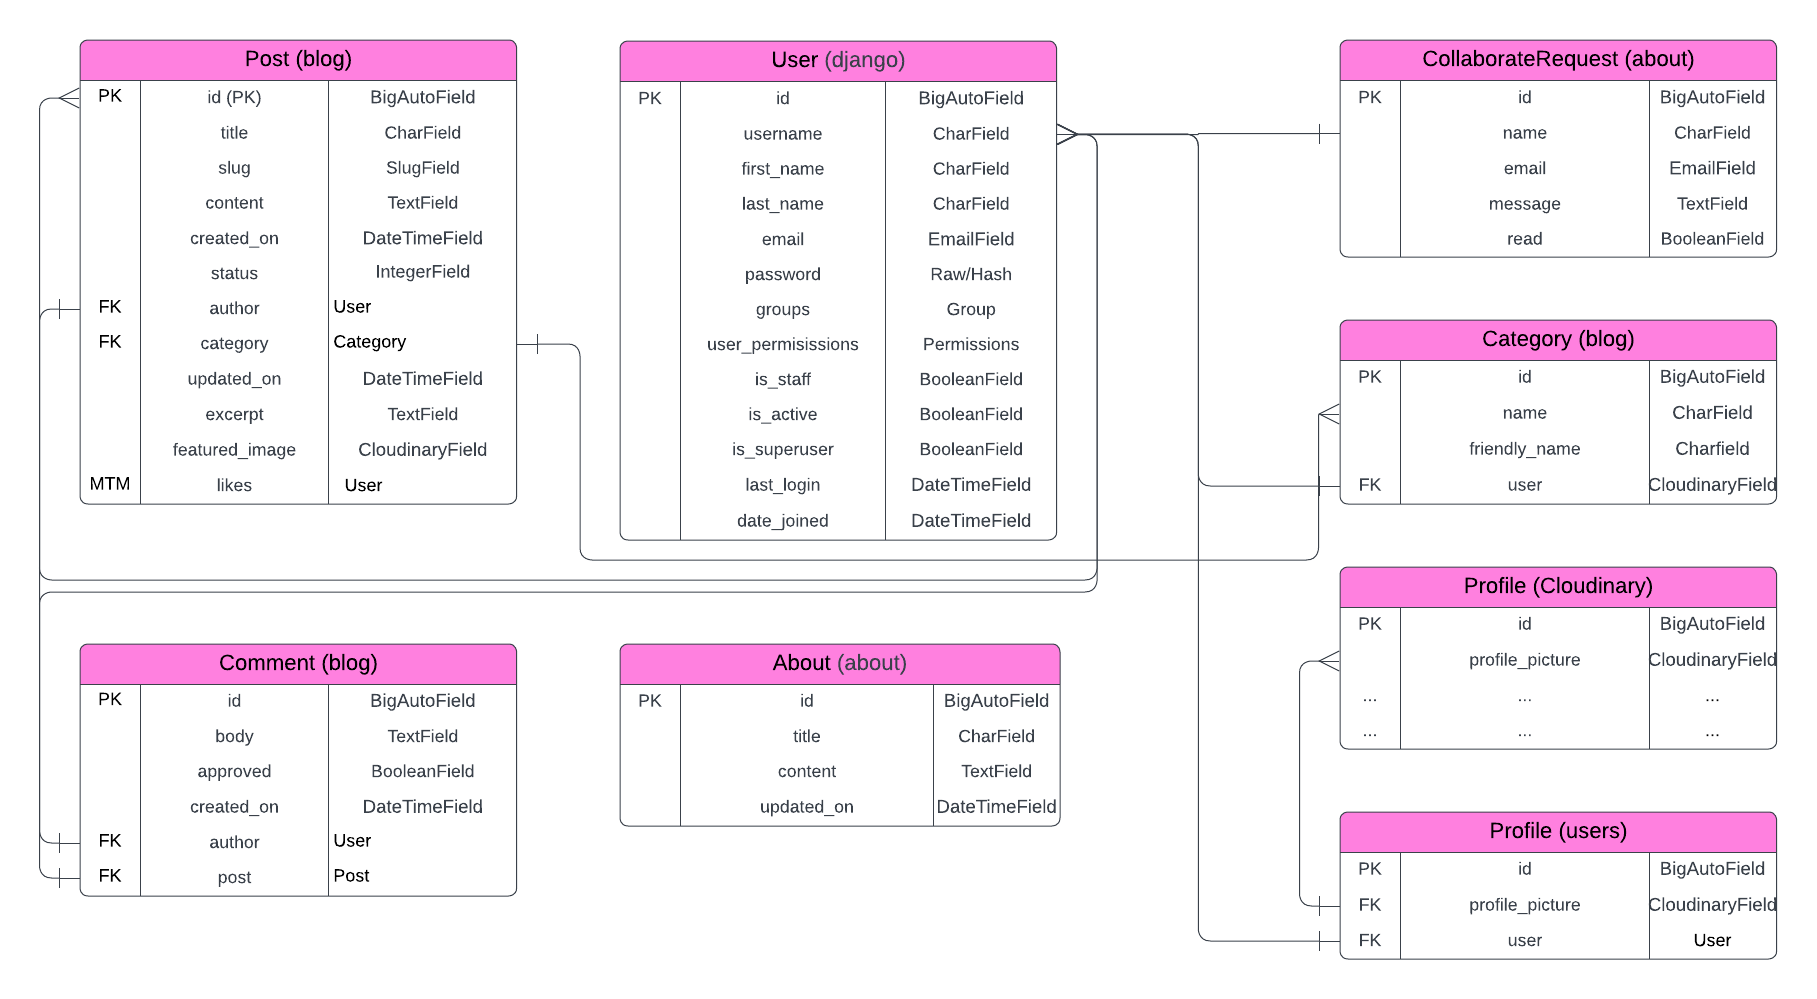
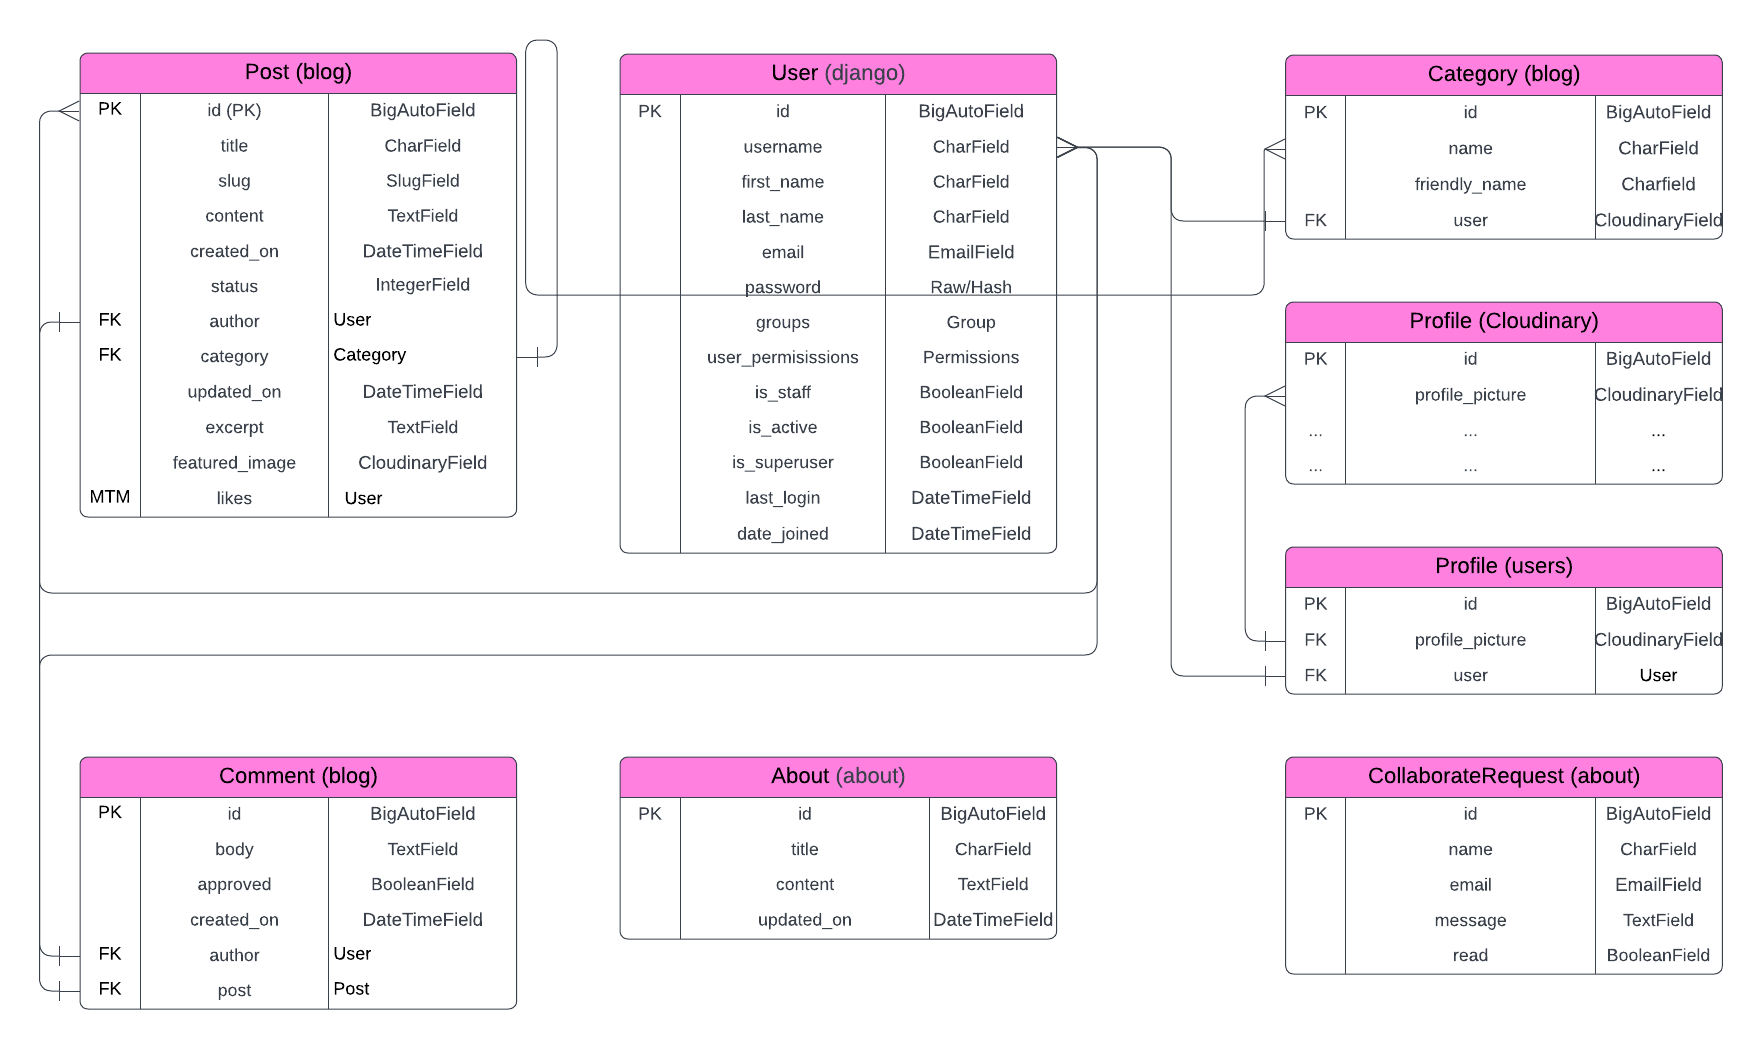
Update README with Entity Relationship details

diff --git a/README.md b/README.md
@@ -4,6 +4,192 @@
 
 
 
+
+
+
+# Project Background
+
+<details>
+
+<summary>Overview</summary> 
+
+- This Django web development project is an extension of Code Institute, "I Think Therefore I Blog".  
+- I have appended several features to the original concept.
+- I have given the User the ability to have a Profile Page so they can add/change their Profile Picture, their Username, Email, First Name and Last Name.
+- Their Profile Page consolidates the Posts that they liked and gives them ability to Edit/Delete the comments that they've submitted and UNLIKE Liked Posts
+- Users can also submit a Post of their own, making it more community driven
+- I have also included a Category feature which allows Users to categorise their Posts.  This feature needs further development in order to produce more meaniingful reports or summaries
+- From an Admin perspective, when the Admin is logged in, they have the ability to use a URL to login to djangos Admin feature.  The Admin retains full control over User Comments and User Posts as they need to be Approved by Admin before User contributions are published on the site for visitors and other Users.  Likes are not controlled by the Admin
+</details>
+
+
+## Agile Methodology
+
+<summary>Personas</summary> 
+
+- Developer - the person developing the product
+- Anonymous User - a user who is not logged in, there are no stories for this visitor
+- User - someone who has registered and logged in
+- Admin - the Site Owner
+
+</details>
+
+<details>
+<summary>Github</summary> 
+Github was used for Planning, Recording and Sharing of all aspects of the project:
+
+The [Project Elements:](https://github.com/users/DMASCoreDeclan/projects/20)
+- [Code Repository](https://github.com/DMASCoreDeclan/PRD-PP4-Blog)
+- [Version Control](https://github.com/DMASCoreDeclan/PRD-PP4-Blog) was used for version control of the code.  Regular [commits](https://github.com/DMASCoreDeclan/PRD-PP4-Blog/commits/main/) were created.  Where possible each commit was isolated to either a specific Issue but may have occassionally also included a minor change to some other part of the code
+- [Milestones](https://github.com/users/DMASCoreDeclan/projects/20/views/3)
+- [User Stories](https://github.com/users/DMASCoreDeclan/projects/20/views/10)
+- [Kanban](https://github.com/users/DMASCoreDeclan/projects/20)
+- [Labels](https://github.com/DMASCoreDeclan/PRD-PP4-Blog/labels)
+- [Sizing](https://github.com/users/DMASCoreDeclan/projects/20/settings/fields/72230614) User Stories were sized using T-shirt sizing (XS, S, M, L, XL) 
+- [MoSCow](https://github.com/users/DMASCoreDeclan/projects/20/views/7) Priorities are based on the MoSCoW method (Must have, Should have, Could have, Won't have)
+</details>
+
+
+
+<details>
+<summary>Github</summary> 
+
+</details>
+
+
+
+<details>
+<summary>Github</summary> 
+
+</details>
+
+
+
+<details>
+<summary>Github</summary> 
+
+</details>
+
+
+
+</details>
+
+
+
+## Wireframes
+[Designed with Balsamiq Wireframes for Desktop](https://balsamiq.com/wireframes/desktop/)
+
+Any vistor who has the URL can see the home sreen [blog|star Home](https://blogstar-fa4e79f10910.herokuapp.com/)
+
+  <details>
+  <summary>Home Screen (Anonymous User)</summary>  <img src=".ReadMe_Docs/images/wireframes/Home Page.png">
+  </details>
+
+  <details>
+  <summary>Register</summary>  <img src=".ReadMe_Docs/images/wireframes/REGISTER.png">
+  </details>
+
+  <details>
+  <summary>Login</summary>  <img src=".ReadMe_Docs/images/wireframes/LOGIN.png">
+  </details>
+
+  <details>
+  <summary> Home Screen (Logged in as Admin)</summary>  <img src=".ReadMe_Docs/images/wireframes/Home of Logged in Admin.png">
+  </details>
+
+  <details>
+  <summary> Home Screen (Logged in User)</summary>  <img src=".ReadMe_Docs/images/wireframes/Home of Logged in User.png">
+  </details>
+
+  <details>
+  <summary>Profile</summary>  <img src=".ReadMe_Docs/images/wireframes/PROFILE.png">
+  </details>
+
+  <details>
+  <summary>Create Post</summary>  <img src=".ReadMe_Docs/images/wireframes/Create.png">
+  </details>
+
+  <details>
+  <summary>Edit Comment</summary>  <img src=".ReadMe_Docs/images/wireframes/Edit Comment.png">
+  </details>
+
+  <details>
+  <summary>Logout</summary>  <img src=".ReadMe_Docs/images/wireframes/LOGOUT.png">
+  </details>
+
+<br>
+<br>
+
+</details>
+ 
+## Entity Relationship Diagram
+[Designed with Lucidchart](https://www.lucidchart.com/pages/)
+
+<details>
+<summary>ERD</summary>  <img src=".ReadMe_Docs/images/PP4 ERD.png">
+</details>
+
+<details>
+<summary>Project - Blogstar</summary>
+
+Blogstar is the django Project.  By default it uses SQLite but we're using PostgreSQL instead.
+
+There are three apps within the project:
+
+1. blog
+1. about
+1. users
+1. external apps
+
+<details>
+<summary>App - blog</summary>
+
+- `blog` models: `Post`, `Comment` and `Category`
+- `blog` forms: `CommentForm`, `CategoryForm` and `PostForm`
+- `blog` views: `PostList`, `PostLike`, `PostCreate`, 
+- `blog` pages: `index.html`, `post_detail.html`, `edit_comment.html` and `post_create.html`
+
+</details>
+
+<details>
+<summary>App - about</summary>
+
+- `about` models:  `About` and `CollaborateRequest`
+- `about` forms: `CollaborateForm`
+- `about` views: `about_me`
+- `about` pages: `about.html`
+
+</details>
+
+<details>
+<summary>App - users</summary>
+
+- `users` models: `Profile`.
+- `users` forms: `UserRegisterForm`, `UserUpdateForm` and `ProfileUpdateForm`
+- `users` views: `register`, `profile`, `comment_delete`, `register`, `register`, `register`, `register`
+- `users` pages: ``
+
+</details>
+
+<details>
+<summary>external - alauth, cloudinary </summary>
+
+- There is one model in `users` called `Profile`.
+
+</details>
+
+</details>
+
+
+
+<br>
+<br>
+
+
+
+
+
+
 ### Live site: https://flyux.carlmurray.design
 
 # Table of Contents
@@ -61,134 +247,11 @@
 - [👋 Credits](#-credits)
 
 
-# Project Background
-
-<details>
-
-<summary>Overview</summary> 
-
-- This Django web development project is an extension of Code Institute, "I Think Therefore I Blog".  
-- I have appended several features to the original concept.
-- I have given the User the ability to have a Profile Page so they can add/change their Profile Picture, their Username, Email, First Name and Last Name.
-- Their Profile Page consolidates the Posts that they liked and gives them ability to Edit/Delete the comments that they've submitted and UNLIKE Liked Posts
-- Users can also submit a Post of their own, making it more community driven
-- I have also included a Category feature which allows Users to categorise their Posts.  This feature needs further development in order to produce more meaniingful reports or summaries
-- From an Admin perspective, when the Admin is logged in, they have the ability to use a URL to login to djangos Admin feature.  The Admin retains full control over User Comments and User Posts as they need to be Approved by Admin before User contributions are published on the site for visitors and other Users.  Likes are not controlled by the Admin
-</details>
-
-
-<details>
-<summary>Agile Methodology</summary> 
-
-<details>
-<summary>Personas</summary> 
-
-- Developer - the person developing the product
-- Anonymous User - a user who is not logged in, there are no stories for this visitor
-- User - someone who has registered and logged in
-- Admin - the Site Owner
-
-</details>
-
-<details>
-<summary>Github</summary> 
-Github was used for Planning, Recording and Sharing of all aspects of the project:
-
-The [Project Elements:](https://github.com/users/DMASCoreDeclan/projects/20)
-- [Code Repository](https://github.com/DMASCoreDeclan/PRD-PP4-Blog)
-- [Version Control](https://github.com/DMASCoreDeclan/PRD-PP4-Blog) was used for version control of the code.  Regular [commits](https://github.com/DMASCoreDeclan/PRD-PP4-Blog/commits/main/) were created.  Where possible each commit was isolated to either a specific Issue but may have occassionally also included a minor change to some other part of the code
-- [Milestones](https://github.com/users/DMASCoreDeclan/projects/20/views/3)
-- [User Stories](https://github.com/users/DMASCoreDeclan/projects/20/views/10)
-- [Kanban](https://github.com/users/DMASCoreDeclan/projects/20)
-- [Labels](https://github.com/DMASCoreDeclan/PRD-PP4-Blog/labels)
-- [Sizing](https://github.com/users/DMASCoreDeclan/projects/20/settings/fields/72230614)
-- [MoSCow](https://github.com/users/DMASCoreDeclan/projects/20/views/7)
-</details>
-
-
-
-<details>
-<summary>Github</summary> 
-
-</details>
-
-
-
-<details>
-<summary>Github</summary> 
-
-</details>
-
-
-
-<details>
-<summary>Github</summary> 
-
-</details>
-
-
-
-</details>
-
-
-
-# Wireframes
-[Designed with Balsamiq Wireframes for Desktop](https://balsamiq.com/wireframes/desktop/)
-
-Any vistor who has the URL can see the home sreen [blog|star Home](https://blogstar-fa4e79f10910.herokuapp.com/)
-
-  <details>
-  <summary>Home Screen (Anonymous User)</summary>  <img src=".ReadMe_Docs/images/wireframes/Home Page.png">
-  </details>
-
-  <details>
-  <summary>Register</summary>  <img src=".ReadMe_Docs/images/wireframes/REGISTER.png">
-  </details>
-
-  <details>
-  <summary>Login</summary>  <img src=".ReadMe_Docs/images/wireframes/LOGIN.png">
-  </details>
-
-  <details>
-  <summary> Home Screen (Logged in as Admin)</summary>  <img src=".ReadMe_Docs/images/wireframes/Home of Logged in Admin.png">
-  </details>
-
-  <details>
-  <summary> Home Screen (Logged in User)</summary>  <img src=".ReadMe_Docs/images/wireframes/Home of Logged in User.png">
-  </details>
-
-  <details>
-  <summary>Profile</summary>  <img src=".ReadMe_Docs/images/wireframes/PROFILE.png">
-  </details>
-
-  <details>
-  <summary>Create Post</summary>  <img src=".ReadMe_Docs/images/wireframes/Create.png">
-  </details>
-
-  <details>
-  <summary>Edit Comment</summary>  <img src=".ReadMe_Docs/images/wireframes/Edit Comment.png">
-  </details>
-
-  <details>
-  <summary>Logout</summary>  <img src=".ReadMe_Docs/images/wireframes/LOGOUT.png">
-  </details>
-
-  <details>
-  <summary> Home Screen</summary>  <img src=".ReadMe_Docs/images/wireframes/Home Page.png">
-  </details>
-
-<br>
-<br>
-
-
-
-
-
 # 🔁 Process
 
 - The development process was carried out using an Agile methodology with a focus on iterative development and continuous improvement.
 - The project was managed using GitHub Project boards with user stories and tasks.  [GitHub Project](https://github.com/users/DMASCoreDeclan/projects/20/views/1)
-- User Stories were sized using T-shirt sizing (XS, S, M, L, XL) and prioritised based on the MoSCoW method (Must have, Should have, Could have, Won't have).
+- .
 
 ####  
 
@@ -201,8 +264,6 @@ I divided the User Stories into 3 types
 - Site Owner Stories - The underlying features that the Site Owner wanted
 - User Stories - The User Experience of the site
 
-</details>
- 
 
 
 
